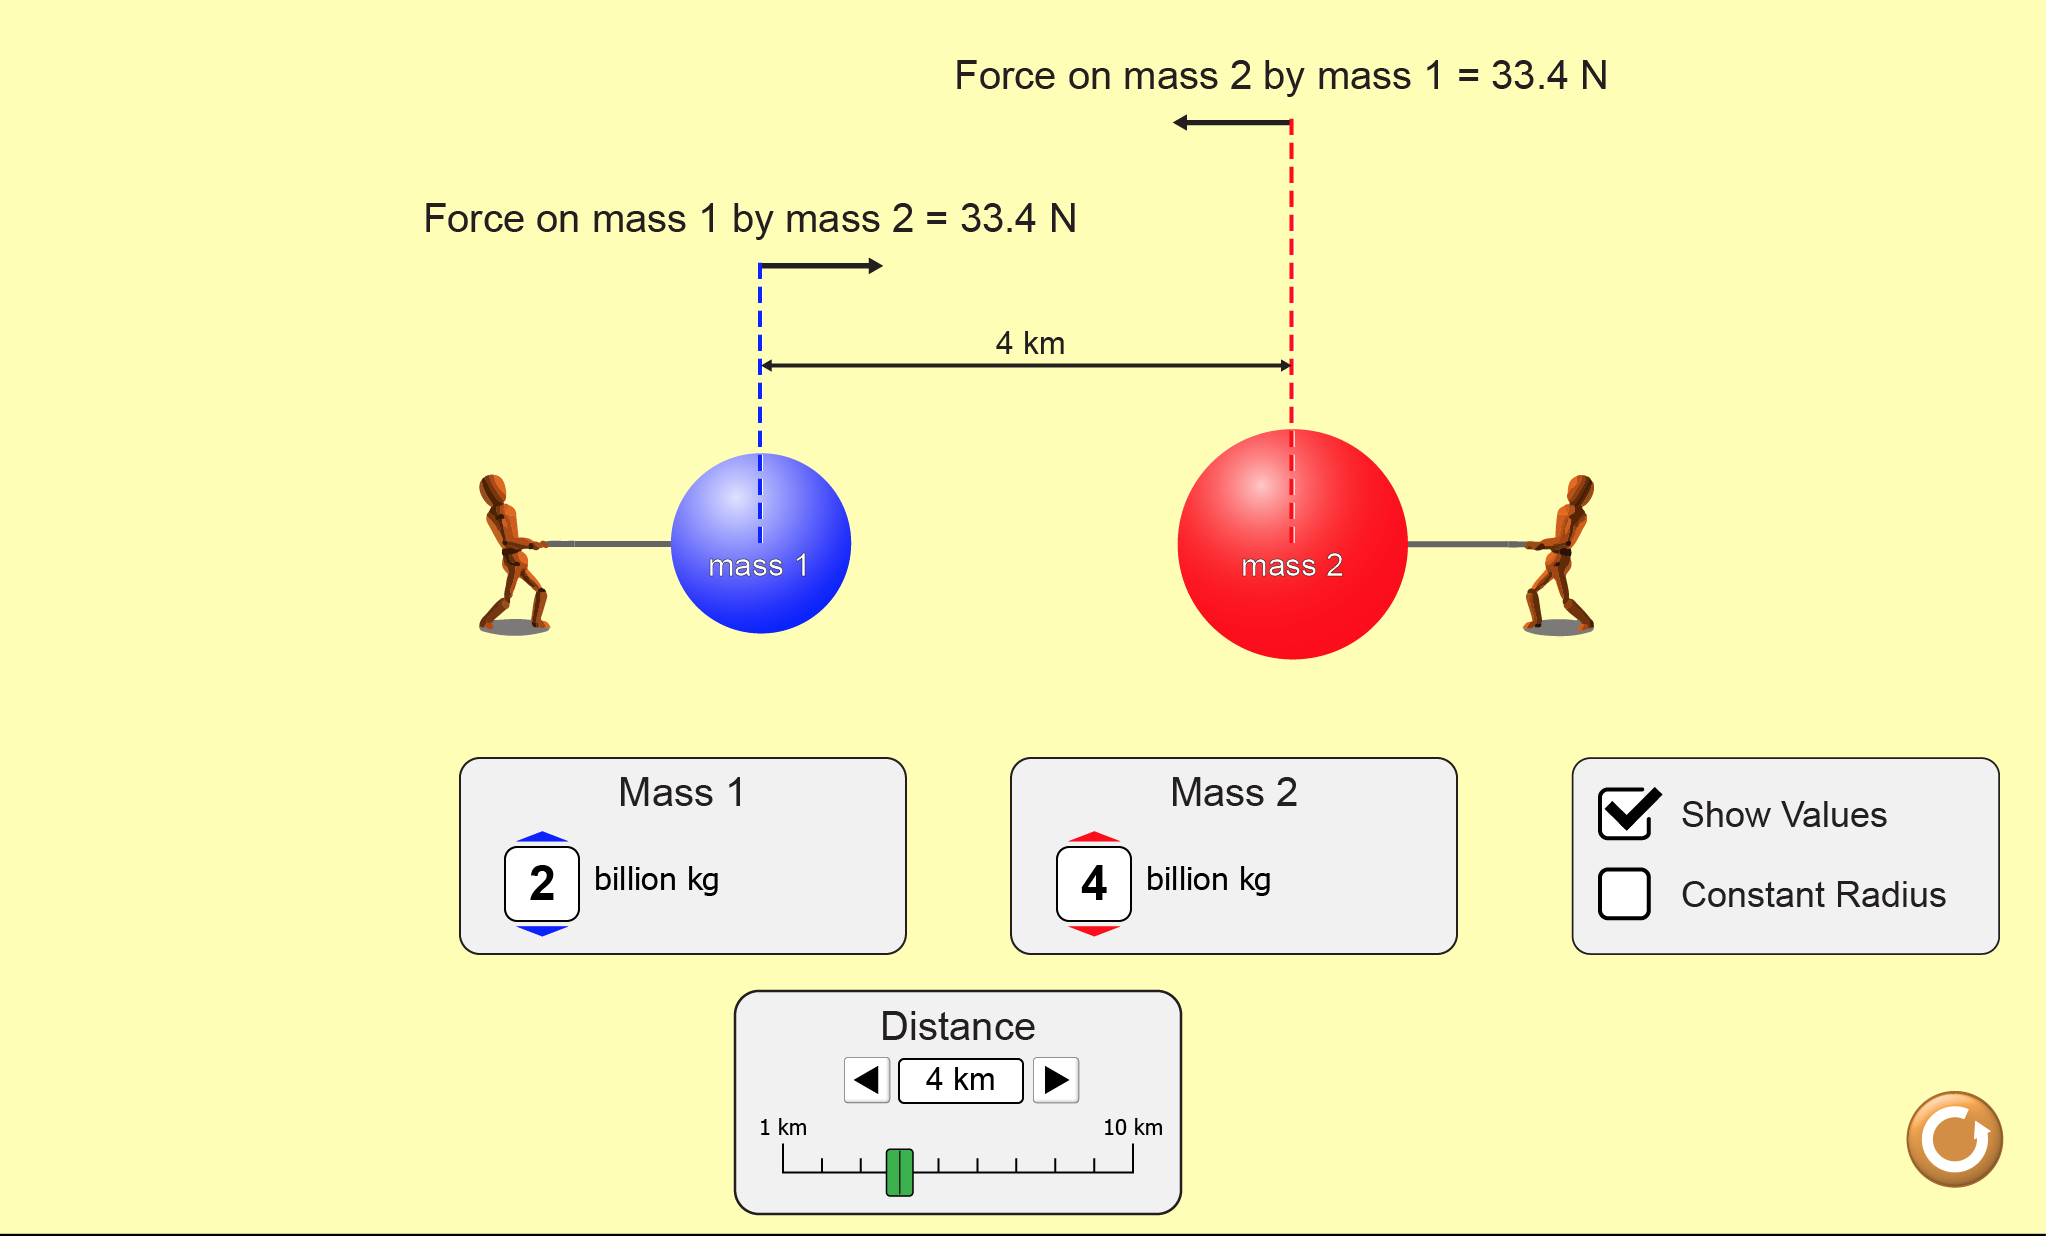
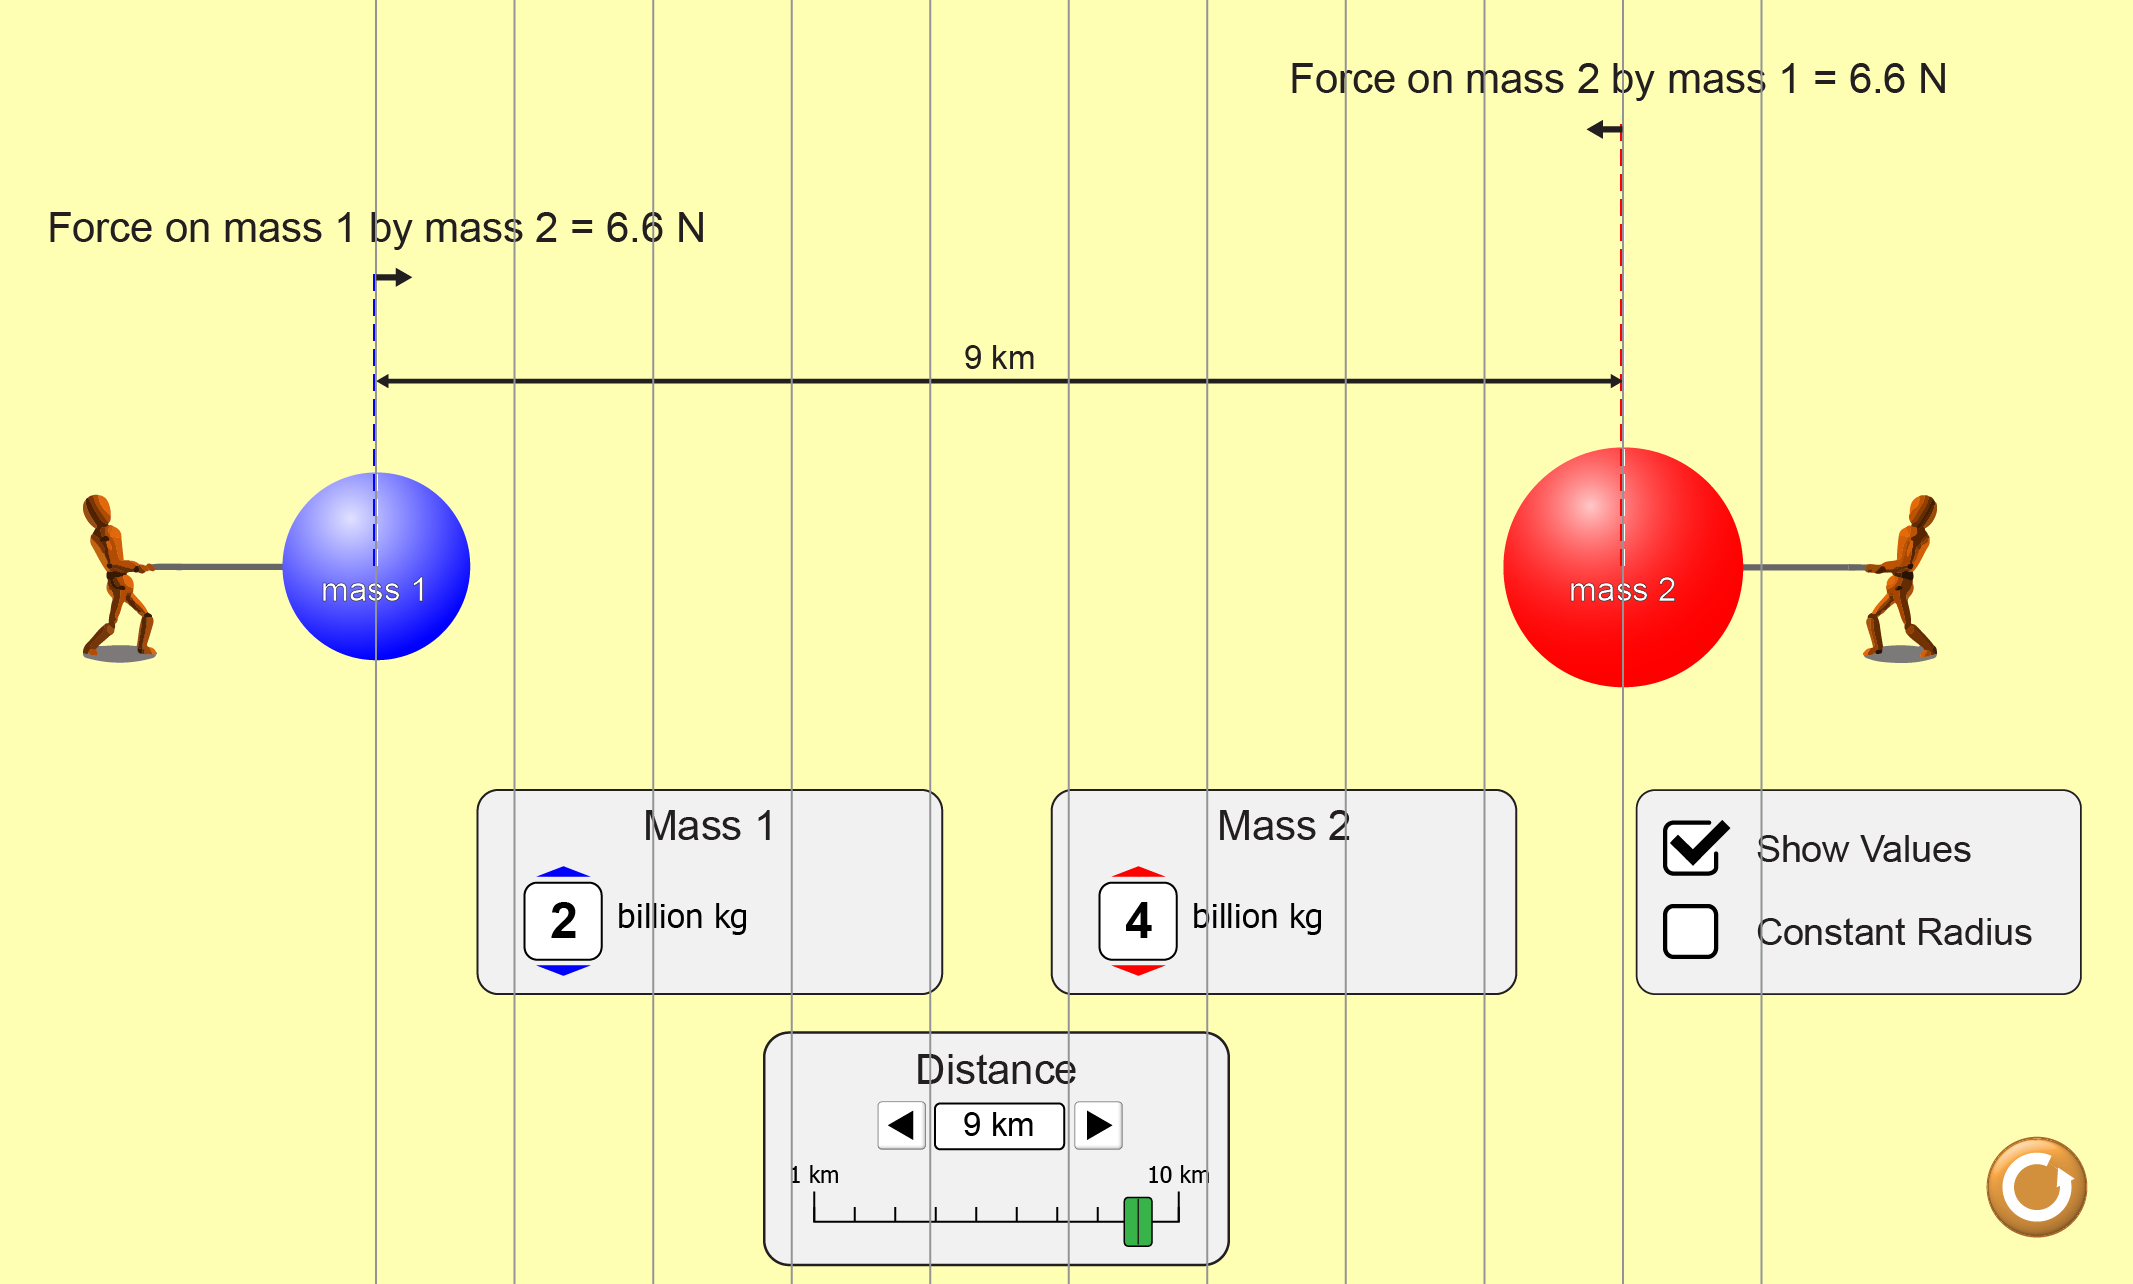
Distance control slider (not connected to model)

diff --git a/js/gravity-force-lab-basics/view/GravityForceLabBasicsScreenView.js b/js/gravity-force-lab-basics/view/GravityForceLabBasicsScreenView.js
@@ -12,9 +12,11 @@ define( function( require ) {
   var Bounds2 = require( 'DOT/Bounds2' );
   var ResetAllButton = require( 'SCENERY_PHET/buttons/ResetAllButton' );
   var ScreenView = require( 'JOIST/ScreenView' );
+  var DistanceControl = require( 'GRAVITY_FORCE_LAB_BASICS/gravity-force-lab-basics/view/DistanceControl' );
   var gravityForceLabBasics = require( 'GRAVITY_FORCE_LAB_BASICS/gravityForceLabBasics' );
   var GravityForceLabBasicsConstants = require( 'GRAVITY_FORCE_LAB_BASICS/gravity-force-lab-basics/GravityForceLabBasicsConstants' );
   var Image = require( 'SCENERY/nodes/Image' );
+  var HBox = require( 'SCENERY/nodes/HBox' );
   var Color = require( 'SCENERY/util/Color' );
   var MassNode = require( 'GRAVITY_FORCE_LAB/gravity-force-lab/view/MassNode' );
   var HSlider = require( 'SUN/HSlider' );
@@ -25,7 +27,7 @@ define( function( require ) {
   var Vector2 = require( 'DOT/Vector2' );
 
   // constants
-  var MASS_CONTROLS_Y_POSITION = 360;
+  var MASS_CONTROLS_Y_POSITION = 345;
   var MASS_NODE_Y_POSITION = 215;
 
   // strings
@@ -61,12 +63,21 @@ define( function( require ) {
 
     // mass controls
     var massControl1 = new MassControl( mass1String, model.mass1.massProperty, GravityForceLabBasicsConstants.MASS_RANGE, tandem.createTandem( 'massControl1' ) );
-    this.addChild( massControl1 );
-
     var massControl2 = new MassControl( mass2String, model.mass2.massProperty, GravityForceLabBasicsConstants.MASS_RANGE, tandem.createTandem( 'massControl2' ), {
       color: new Color( 255, 0, 0 )
     } );
-    this.addChild( massControl2 );
+
+    // place mass controls in an HBox
+    var massControlBox = new HBox( {
+      children: [ massControl1, massControl2 ],
+      center: this.layoutBounds.center,
+      spacing: 50
+    } );
+    this.addChild( massControlBox );
+
+    // distance controls
+    var distanceControl = new DistanceControl( model.mass1, model.mass2 );
+    this.addChild( distanceControl );
 
     // add the mass nodes to the screen
     this.addChild( new MassNode(
@@ -116,10 +127,13 @@ define( function( require ) {
     // layout the view elements
     parameterControlPanel.right = this.layoutBounds.width - 15;
     parameterControlPanel.bottom = MASS_CONTROLS_Y_POSITION;
-    massControl2.right = parameterControlPanel.left - 45;
-    massControl2.top = parameterControlPanel.top;
-    massControl1.right = massControl2.left - 45;
-    massControl1.top = parameterControlPanel.top;
+
+    massControlBox.right = parameterControlPanel.left - 45;
+    massControlBox.top = parameterControlPanel.top;
+
+    distanceControl.centerX = massControlBox.centerX;
+    distanceControl.top = massControlBox.bottom + 15;
+
     // massControl1ConstantRadius.center = massControl1.center;
     // massControl2ConstantRadius.center = massControl2.center;
     resetAllButton.right = parameterControlPanel.right;

diff --git a/js/gravity-force-lab-basics/view/DistanceControl.js b/js/gravity-force-lab-basics/view/DistanceControl.js
@@ -1,0 +1,83 @@
+// Copyright 2017, University of Colorado Boulder
+
+/**
+ * A number control contained in a panel that controls the distance of the masses in this sim.  The distances are
+ * limited to integer values between 1-10 km when changed with the slider, and limited to 0.1 km when changed
+ * with the tweakers.
+ *
+ * TODO: Complete according to specification and bring up to standards.
+ * @author Jesse Greenberg
+ */
+
+define( function( require ) {
+  'use strict';
+
+  // modules
+  var inherit = require( 'PHET_CORE/inherit' );
+  var gravityForceLabBasics = require( 'GRAVITY_FORCE_LAB_BASICS/gravityForceLabBasics' );
+  var Panel = require( 'SUN/Panel' );
+  var Range = require( 'DOT/Range' );
+  var Util = require( 'DOT/Util' );
+  var NumberControl = require( 'SCENERY_PHET/NumberControl' );
+  var Property = require( 'AXON/Property' );
+  var Dimension2 = require( 'DOT/Dimension2' );
+  var Text = require( 'SCENERY/nodes/Text' );
+  var PhetFont = require( 'SCENERY_PHET/PhetFont' );
+
+  /**
+   * Constructor.
+   * @param {number} mass1
+   * @param {number} mass2
+   */
+  function DistanceControl( mass1, mass2 ) {
+
+    // temp properties and values - replace with model values
+    // and implement behavior of masses
+    var tempProperty = new Property( 0 ); // in km
+    var numberRange = new Range( 0, 10 ); // in km
+
+    // major tick labels
+    var minLabel = new Text( '1 km', { font: new PhetFont( 10 ) } );
+    var maxLabel = new Text( '10 km', { font: new PhetFont( 10 ) } );
+
+    var control = new NumberControl( 'Distance', tempProperty, numberRange, {
+      // layout
+      layoutFunction: NumberControl.createLayoutFunction3(),
+
+      // arrow buttons
+      arrowButtonScale: 0.55,
+      delta: 0.1,
+
+      // value
+      valueAlign: 'center',
+      decimalPlaces: 1,
+
+      // slider
+      trackSize: new Dimension2( 130, 1 ),
+      thumbSize: new Dimension2( 15, 22 ),
+      thumbFillEnabled: 'rgb(55,179,74)',
+      thumbCenterLineStroke: 'black',
+      thumbTouchAreaXDilation: 11,
+      thumbTouchAreaYDilation: 11,
+      thumbMouseAreaXDilation: 0,
+      thumbMouseAreaYDilation: 0,
+      majorTicks: [ { value: 0, label: minLabel }, { value: 10, label: maxLabel } ],
+      minorTickSpacing: 1, // zero indicates no minor ticks
+      majorTickLength: 10,
+      minorTickLength: 5,
+      constrainValue: function( value ) {
+        return Util.roundSymmetric( value );
+      }
+    } );
+
+    
+    Panel.call( this, control, {
+      resize: false
+    } );
+  }
+
+  gravityForceLabBasics.register( 'DistanceControl', DistanceControl );
+
+  return inherit( Panel, DistanceControl );
+
+} );

diff --git a/js/gravity-force-lab-basics/view/MassControl.js b/js/gravity-force-lab-basics/view/MassControl.js
@@ -44,17 +44,21 @@ define( function( require ) {
       color: new Color( 0, 0, 255 )
     }, options );
 
-    var titleText = new Text( titleString, { font: new PhetFont( 16 ) } );
+    var titleText = new Text( titleString, { font: new PhetFont( 14 ) } );
 
     var numberPicker = new NumberPicker( massProperty, new Property( massRange ), {
       font: new PhetFont( 20 ),
-      color: options.color,
       upFunction: function() { return massProperty.get() + GravityForceLabBasicsConstants.BILLION_MULTIPLIER; },
       downFunction: function() { return massProperty.get() - GravityForceLabBasicsConstants.BILLION_MULTIPLIER; },
       formatText: function( text ) {
         var value = parseInt( text, 10 );
         return value / GravityForceLabBasicsConstants.BILLION_MULTIPLIER;
-      }
+      },
+
+      // arrow options
+      arrowHeight: 3,
+      arrowYSpacing: 2,
+      color: options.color,
     } );
     var numberPickerLabel = new Text( billionKGString, { font: new PhetFont( { size: 11, weight: 'bold' } ) } );
     var numberPickerSpacer = new Spacer( MIN_PANEL_WIDTH - numberPicker.width - numberPickerLabel.width - 10, 0 );
@@ -74,7 +78,7 @@ define( function( require ) {
 
     var panelVBox = new VBox( {
       children: [ titleBox, numberPickerBox ],
-      spacing: 10
+      spacing: 5
     } );
 
     Panel.call( this, panelVBox, {
